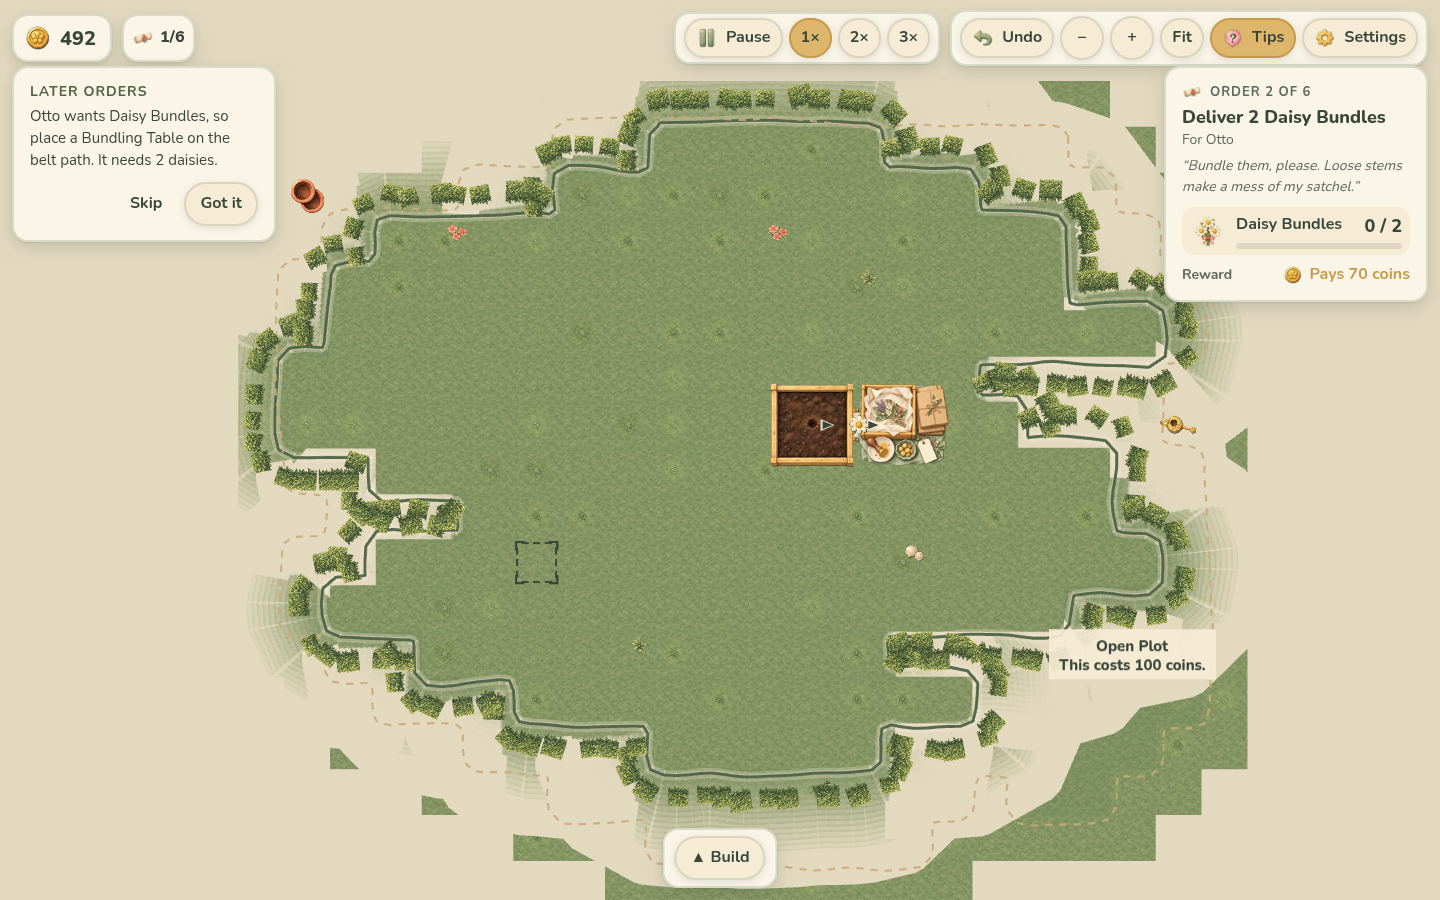
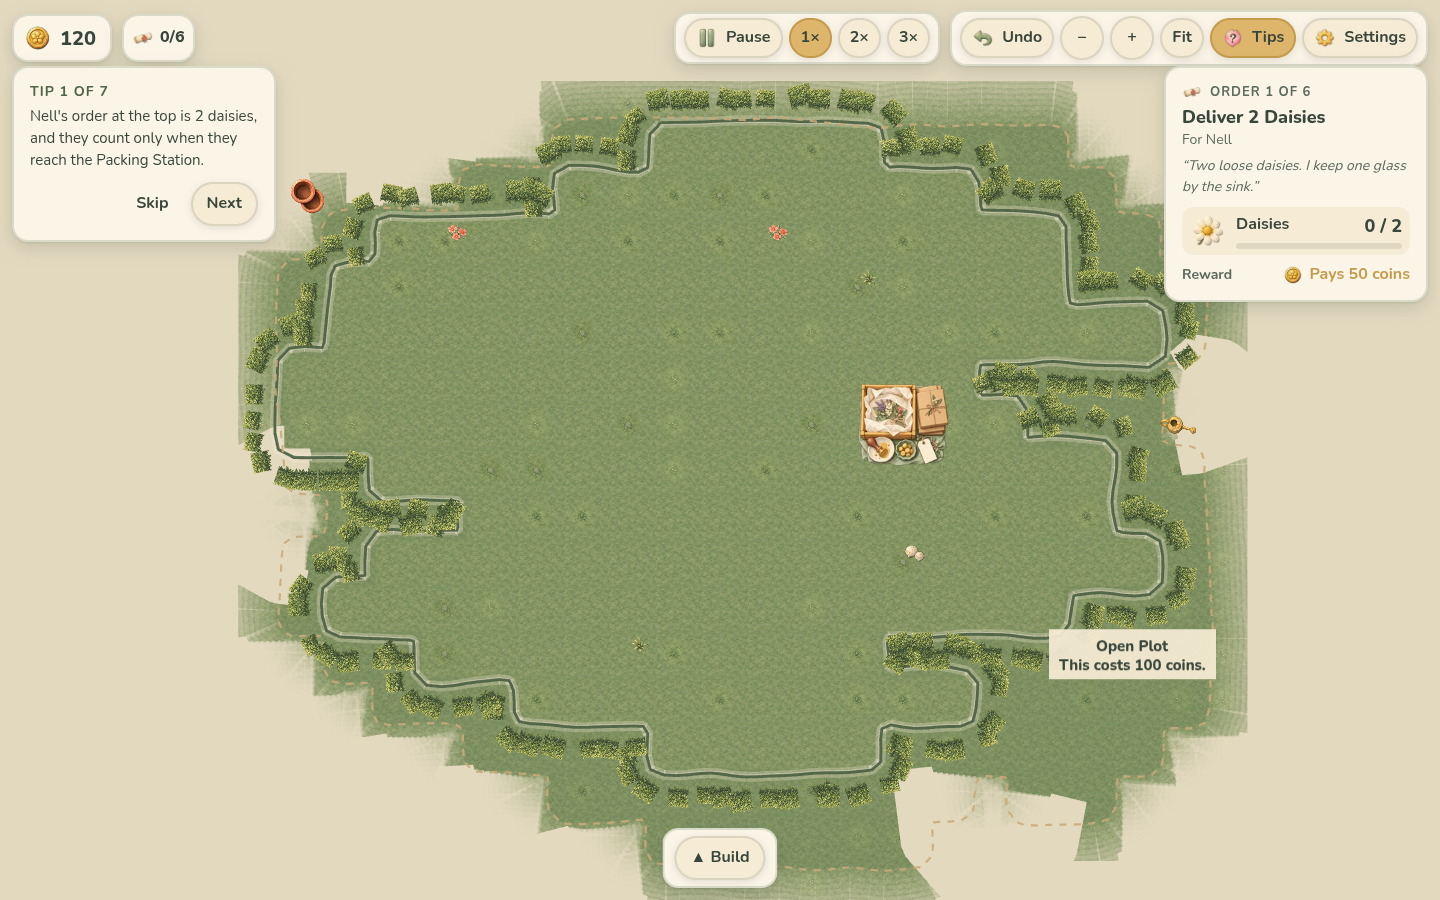
Checkpoint: run9 fade/tint follows smooth future outline + plotcheck tool (producer commit after stall); 22:47 review

diff --git a/src/game/PetalScene.ts b/src/game/PetalScene.ts
@@ -204,11 +204,15 @@ export class PetalScene extends Phaser.Scene {
     // The organic border: traced around the open tiles, smoothed and wobbled, pushed a
     // little outward so the curve clears the buildable tiles' corners.
     const loops = organicOutline(openTiles, TILE, 7).map((l) => offset(l, TILE * 0.12));
+    // The closed preview continues the lawn past the hedge, so the soft fade into the
+    // surroundings follows the *outer* edge (open + closed tiles) with the same curve;
+    // with nothing closed, the fade sits on the hedge line itself.
+    const future = closedTiles.length ? organicOutline([...openTiles, ...closedTiles], TILE, 7).map((l) => offset(l, TILE * 0.12)) : loops;
     const fade = this.add.graphics().setDepth(DEPTH.ground + 0.3);
     const border = this.add.graphics().setDepth(DEPTH.ground + 0.5);
     this.ground.sort((a, b) => a.depth - b.depth);
-    for (const loop of loops) {
-      // Soft fade from the border out past the lawn apron: linen strokes along outward
+    for (const loop of future) {
+      // Soft fade from the outer edge out past the lawn apron: linen strokes along outward
       // offsets of the curve, each a little stronger, so the lawn melts into the surroundings.
       // (Strokes, not ring triangles: offsets self-cross at tight bays and triangles would flip.)
       const steps = 14;
@@ -221,6 +225,8 @@ export class PetalScene extends Phaser.Scene {
       }
       fade.lineStyle(TILE * 0.8, COLORS.linen, 1);
       fade.strokePoints(offset(loop, reach + TILE * 0.35), true, true);
+    }
+    for (const loop of loops) {
       // One continuous painted border: a soft glow, the line, and a thin cream highlight.
       border.lineStyle(14, COLORS.cream, 0.28);
       border.strokePoints(loop, true, true);
@@ -249,12 +255,13 @@ export class PetalScene extends Phaser.Scene {
     // Closed field preview: a tint, the future border as a dotted kraft curve, and one
     // label placed on the closed tile farthest from the field's own edge so it fits inside.
     if (closedTiles.length) {
+      // The tint fills the smooth future outline (not tile squares); open tiles sit above
+      // it, so only the closed field shows the tint, and its outer edge is the curve.
       const tint = this.add.graphics().setDepth(DEPTH.ground + 0.2);
       tint.fillStyle(COLORS.moss, 0.2);
-      for (const t of closedTiles) tint.fillRect(t.x * TILE, t.y * TILE, TILE + 1, TILE + 1);
+      for (const loop of future) tint.fillPoints(loop, true);
       const dashed = this.add.graphics().setDepth(DEPTH.ground + 0.55);
       this.lockedGfx.push(dashed);
-      const future = organicOutline([...openTiles, ...closedTiles], TILE, 7).map((l) => offset(l, TILE * 0.12));
       for (const loop of future) {
         const pts = resample(loop, 10);
         dashed.lineStyle(3, 0xc9a978, 0.9);

diff --git a/producer/REVISIONS.md b/producer/REVISIONS.md
@@ -161,3 +161,8 @@ Plot review from shot 14 (checkpoint 87fff3d):
 - The hedge sprites read as boxy segments in places. Fine for now, since Allie is redrawing the art, but keep the line continuous.
 Fix the stray patches first and commit. Then do the playtest items in order: belts (1), machine overlap on big screens (4), placement preview size (2), sound toggle and volume sliders (3), responsive layout 1024 to 4K (5). Commit after each one.
 To avoid stalls: view at most one screenshot per check, and prefer checking pixel data or DOM/state with scripts over reading images.
+
+## 22:47 (producer) - run9 stalled again; new image rule
+- Run9 hung right after `Read`-ing the full-size `producer/shots/14-yard-outline.png` (~1 MB). Every stall so far (runs 4-9) came right after reading a full-size PNG. **New rule: never `Read` a PNG from producer/shots directly.** To look at a screenshot, first make a small copy, e.g. `node -e "require('sharp')(IN).resize(1000).jpeg({quality:70}).toFile('/tmp/view.jpg')"`, and `Read` only that JPEG, one at a time. Prefer `tools/plotcheck.mjs`-style scripted checks.
+- I committed your in-progress fade/tint change as a checkpoint (49 tests, tsc pass).
+- Current shot 14 still shows square, blocky grass chunks outside the hedge: the outer lawn apron has rectangular steps and hard corners at the left, bottom-left, bottom-right and right edges. The ground beyond the hedge must melt into linen along a smooth curve with no tile-shaped steps. Finish that, verify with plotcheck, commit, then go on to playtest items 1, 4, 2, 3, 5.
